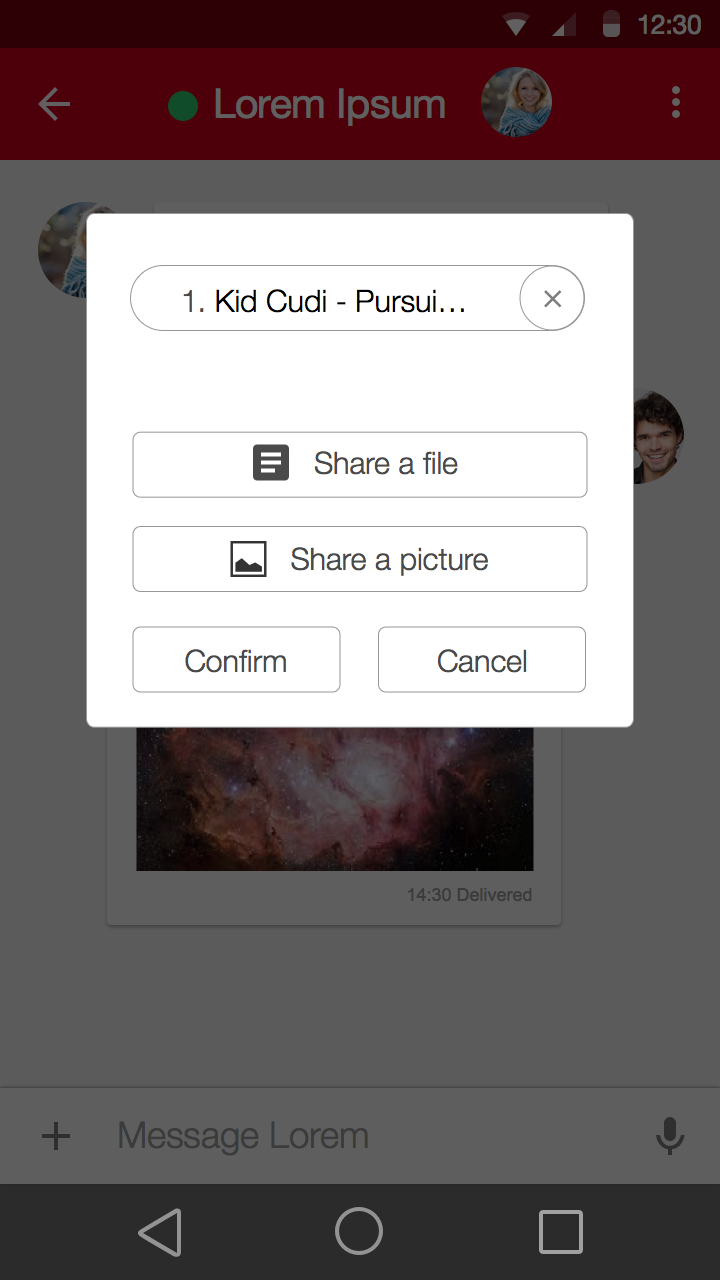
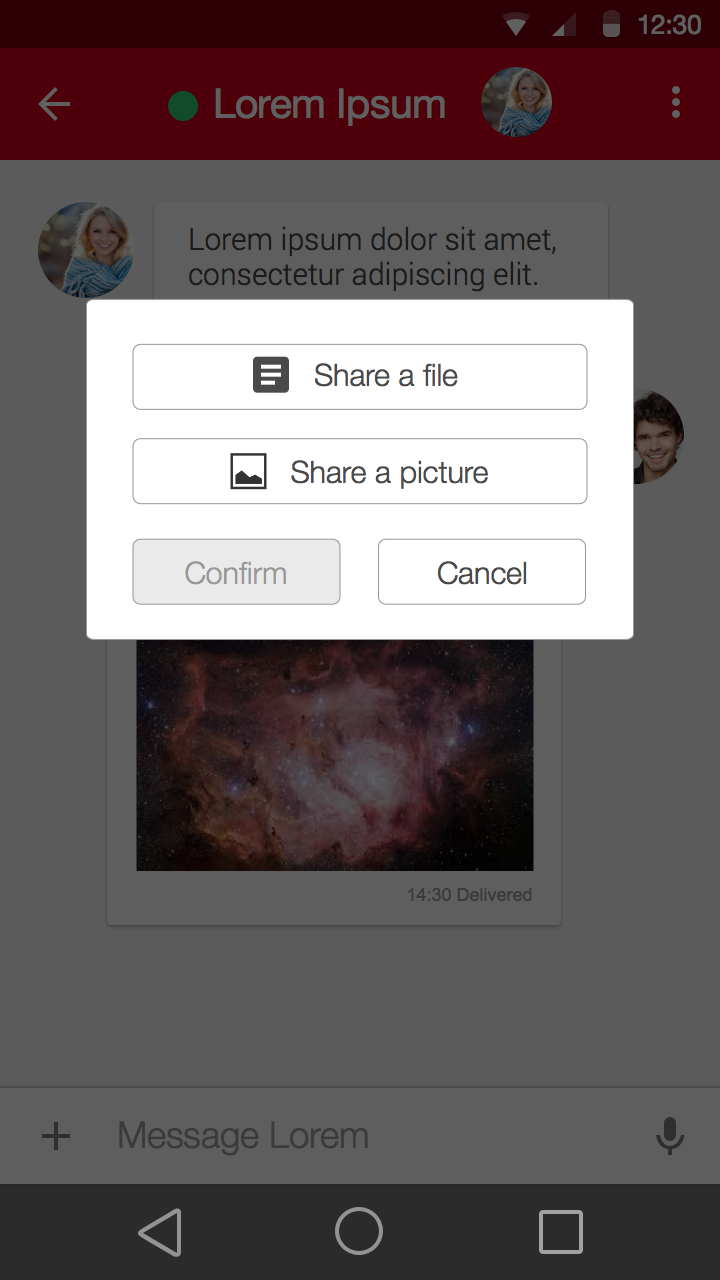
Fixed some UI mockups

diff --git a/doc/storyboard/GroupMessageSettingsPromptRenamed.html b/doc/storyboard/GroupMessageSettingsPromptRenamed.html
@@ -10,12 +10,10 @@
 			<center>
 				<div>
 					<div id="center">
-						<img id="centerIMG"src="img/Contacts_MessagingFiles.png">
-						<a href="gallery.html"><div class="highlight" style="position:absolute;top: 240px;left: 75px;width: 250px;height: 40px;"></div></a>
-						<a href="fileChoose.html"><div class="highlight" style="position:absolute;top: 190px;left: 75px;width: 250px;height: 40px;"></div></a>
-						<a href="Message.html"><div class="highlight" style="position:absolute;top: 296px;left: 216px;width: 100px;height: 40px;"></div></a>
-						<!--<a href="MessagzeAddedFile.html"><div class="highlight" style="position:absolute;top: 296px;left: 80px;width: 100px;height: 40px;"></div></a>-->
-
+						<img id="centerIMG"src="img/Group_messagingPromptRenamed.png">
+						<a href="index.html"><div class="highlight" style="position:absolute;top: 669px;left: 74px;width: 30px;height: 30px;"></div></a>
+						<a href="GroupMessageOther.html"><div class="highlight" style="position:absolute;top: 290px;left: 216px;width: 100px;height: 40px;"></div></a>
+						<a href="GroupMessageNewOther.html"><div class="highlight" style="position:absolute;top: 290px;left: 82px;width: 100px;height: 40px;"></div></a>
 					</div>
 					<div id="text"><h1>Tox Android Application Mockup</h1></div>
 					<input id="checkbox" type="checkbox"  checked>Highlight Touch Spots<br>

diff --git a/doc/storyboard/GroupMessageSettingsNewOther.html b/doc/storyboard/GroupMessageSettingsNewOther.html
@@ -10,10 +10,13 @@
 			<center>
 				<div>
 					<div id="center">
-						<img id="centerIMG"src="img/Group_messaging_Settings.png">
+						<img id="centerIMG"src="img/Group_messagingNewOther.png">
 						<a href="index.html"><div class="highlight" style="position:absolute;top: 669px;left: 74px;width: 30px;height: 30px;"></div></a>
 						<a href="index.html"><div class="highlight" style="position:absolute;top: 40px;left: 17px;width: 30px;height: 30px;"></div></a>
-						<a href="GroupMessageSettingsPrompt.html"><div class="highlight" style="position:absolute;top: 75px;left: 247px;width: 100px;height: 30px;"></div></a>
+						<a href="GroupMessagePromptLeave.html"><div class="highlight" style="position:absolute;top: 110px;left: 247px;width: 100px;height: 30px;"></div></a>
+						<a href="GroupMessageContacts.html"><div class="highlight" style="position:absolute;top: 185px;left: 247px;width: 125px;height: 30px;"></div></a>
+						<a href="GroupMessageSettingsPromptRename.html"><div class="highlight" style="position:absolute;top: 75px;left: 247px;width: 100px;height: 30px;"></div></a>
+
 					</div>
 					<div id="text"><h1>Tox Android Application Mockup</h1></div>
 					<a href="MessageWritting.html" style="color:blue;">Friend Writting!</a>

diff --git a/doc/storyboard/MessageEdited.html b/doc/storyboard/MessageEdited.html
@@ -10,12 +10,9 @@
 			<center>
 				<div>
 					<div id="center">
-						<img id="centerIMG"src="img/Contacts_MessagingFiles.png">
-						<a href="gallery.html"><div class="highlight" style="position:absolute;top: 240px;left: 75px;width: 250px;height: 40px;"></div></a>
-						<a href="fileChoose.html"><div class="highlight" style="position:absolute;top: 190px;left: 75px;width: 250px;height: 40px;"></div></a>
-						<a href="Message.html"><div class="highlight" style="position:absolute;top: 296px;left: 216px;width: 100px;height: 40px;"></div></a>
-						<!--<a href="MessagzeAddedFile.html"><div class="highlight" style="position:absolute;top: 296px;left: 80px;width: 100px;height: 40px;"></div></a>-->
-
+						<img id="centerIMG"src="img/Contacts_MessagingEdited.png">
+						<a href="MessageEditedDone.html"><div class="highlight" style="position:absolute;top: 290px;left: 82px;width: 100px;height: 40px;"></div></a>
+						<a href="Message.html"><div class="highlight" style="position:absolute;top: 290px;left: 216px;width: 100px;height: 40px;"></div></a>
 					</div>
 					<div id="text"><h1>Tox Android Application Mockup</h1></div>
 					<input id="checkbox" type="checkbox"  checked>Highlight Touch Spots<br>

diff --git a/doc/storyboard/GroupMessageSettingsPromptRename.html b/doc/storyboard/GroupMessageSettingsPromptRename.html
@@ -10,13 +10,14 @@
 			<center>
 				<div>
 					<div id="center">
-						<img id="centerIMG"src="img/Group_messagingPrompt.png">
+						<img id="centerIMG"src="img/Group_messagingPromptRename.png">
 						<a href="index.html"><div class="highlight" style="position:absolute;top: 669px;left: 74px;width: 30px;height: 30px;"></div></a>
-						<a href="GroupMessage.html"><div class="highlight" style="position:absolute;top: 290px;left: 82px;width: 100px;height: 40px;"></div></a>
-						<a href="GroupMessage.html"><div class="highlight" style="position:absolute;top: 290px;left: 216px;width: 100px;height: 40px;"></div></a>
+						<a href="GroupMessageOther.html"><div class="highlight" style="position:absolute;top: 290px;left: 216px;width: 100px;height: 40px;"></div></a>
+						<a href="GroupMessageSettingsPromptRenamed.html" style="color:blue;"><div style="position:absolute;top: 280px;left: -168px;height: 80px;">Edit the Group Name!</div></a>
+
 					</div>
 					<div id="text"><h1>Tox Android Application Mockup</h1></div>
-					<input id="checkbox" type="checkbox"  checked>Highlight Touch Spots<br>+
+					<input id="checkbox" type="checkbox"  checked>Highlight Touch Spots<br>
 				</div>
 			</center>
 			

diff --git a/doc/storyboard/MessageAddedFilesPrompt.html b/doc/storyboard/MessageAddedFilesPrompt.html
@@ -10,11 +10,9 @@
 			<center>
 				<div>
 					<div id="center">
-						<img id="centerIMG"src="img/Contacts_MessagingFiles.png">
-						<a href="gallery.html"><div class="highlight" style="position:absolute;top: 240px;left: 75px;width: 250px;height: 40px;"></div></a>
-						<a href="fileChoose.html"><div class="highlight" style="position:absolute;top: 190px;left: 75px;width: 250px;height: 40px;"></div></a>
-						<a href="Message.html"><div class="highlight" style="position:absolute;top: 296px;left: 216px;width: 100px;height: 40px;"></div></a>
-						<!--<a href="MessagzeAddedFile.html"><div class="highlight" style="position:absolute;top: 296px;left: 80px;width: 100px;height: 40px;"></div></a>-->
+						<img id="centerIMG"src="img/Contacts_MessagingFilesAdded.png">
+						<a href="Message.html"><div class="highlight" style="position:absolute;top: 346px;left: 216px;width: 100px;height: 40px;"></div></a>
+						<a href="MessageAddedFile.html"><div class="highlight" style="position:absolute;top: 346px;left: 80px;width: 100px;height: 40px;"></div></a>
 
 					</div>
 					<div id="text"><h1>Tox Android Application Mockup</h1></div>

diff --git a/doc/storyboard/GroupMessageNewOther.html b/doc/storyboard/GroupMessageNewOther.html
@@ -10,15 +10,12 @@
 			<center>
 				<div>
 					<div id="center">
-						<img id="centerIMG"src="img/Contacts_MessagingFiles.png">
-						<a href="gallery.html"><div class="highlight" style="position:absolute;top: 240px;left: 75px;width: 250px;height: 40px;"></div></a>
-						<a href="fileChoose.html"><div class="highlight" style="position:absolute;top: 190px;left: 75px;width: 250px;height: 40px;"></div></a>
-						<a href="Message.html"><div class="highlight" style="position:absolute;top: 296px;left: 216px;width: 100px;height: 40px;"></div></a>
-						<!--<a href="MessagzeAddedFile.html"><div class="highlight" style="position:absolute;top: 296px;left: 80px;width: 100px;height: 40px;"></div></a>-->
-
+						<img id="centerIMG"src="img/Group_messagingNewOther.png">
 					</div>
 					<div id="text"><h1>Tox Android Application Mockup</h1></div>
+					<a href="MessageWritting.html" style="color:blue;">Friend Writting!</a>
 					<input id="checkbox" type="checkbox"  checked>Highlight Touch Spots<br>
+
 				</div>
 			</center>
 			

diff --git a/doc/storyboard/MessageEditedDone.html b/doc/storyboard/MessageEditedDone.html
@@ -10,14 +10,10 @@
 			<center>
 				<div>
 					<div id="center">
-						<img id="centerIMG"src="img/Contacts_MessagingFiles.png">
-						<a href="gallery.html"><div class="highlight" style="position:absolute;top: 240px;left: 75px;width: 250px;height: 40px;"></div></a>
-						<a href="fileChoose.html"><div class="highlight" style="position:absolute;top: 190px;left: 75px;width: 250px;height: 40px;"></div></a>
-						<a href="Message.html"><div class="highlight" style="position:absolute;top: 296px;left: 216px;width: 100px;height: 40px;"></div></a>
-						<!--<a href="MessagzeAddedFile.html"><div class="highlight" style="position:absolute;top: 296px;left: 80px;width: 100px;height: 40px;"></div></a>-->
-
+						<img id="centerIMG"src="img/Contacts_MessagingEditedDone.png">
 					</div>
 					<div id="text"><h1>Tox Android Application Mockup</h1></div>
+					<a href="MessageWritting.html" style="color:blue;">Friend Writting!</a>
 					<input id="checkbox" type="checkbox"  checked>Highlight Touch Spots<br>
 				</div>
 			</center>

diff --git a/doc/storyboard/GroupMessageSettingsOther.html b/doc/storyboard/GroupMessageSettingsOther.html
@@ -15,6 +15,8 @@
 						<a href="index.html"><div class="highlight" style="position:absolute;top: 40px;left: 17px;width: 30px;height: 30px;"></div></a>
 						<a href="GroupMessagePromptLeave.html"><div class="highlight" style="position:absolute;top: 110px;left: 247px;width: 100px;height: 30px;"></div></a>
 						<a href="GroupMessageContacts.html"><div class="highlight" style="position:absolute;top: 185px;left: 247px;width: 125px;height: 30px;"></div></a>
+						<a href="GroupMessageSettingsPromptRename.html"><div class="highlight" style="position:absolute;top: 75px;left: 247px;width: 100px;height: 30px;"></div></a>
+
 					</div>
 					<div id="text"><h1>Tox Android Application Mockup</h1></div>
 					<a href="MessageWritting.html" style="color:blue;">Friend Writting!</a>

diff --git a/doc/storyboard/MessageEdit.html b/doc/storyboard/MessageEdit.html
@@ -13,6 +13,7 @@
 						<img id="centerIMG"src="img/Contacts_MessagingEdit.png">
 						<a href="Message.html"><div class="highlight" style="position:absolute;top: 290px;left: 82px;width: 100px;height: 40px;"></div></a>
 						<a href="Message.html"><div class="highlight" style="position:absolute;top: 290px;left: 216px;width: 100px;height: 40px;"></div></a>
+						<a href="MessageEdited.html" style="color:blue;"><div style="position:absolute;top: 280px;left: -108px;height: 80px;">Edit the Text!</div></a>
 					</div>
 					<div id="text"><h1>Tox Android Application Mockup</h1></div>
 					<input id="checkbox" type="checkbox"  checked>Highlight Touch Spots<br>

diff --git a/doc/storyboard/GroupMessage.html b/doc/storyboard/GroupMessage.html
@@ -13,7 +13,6 @@
 						<img id="centerIMG"src="img/Group_messaging.png">
 						<a href="index.html"><div class="highlight" style="position:absolute;top: 669px;left: 74px;width: 30px;height: 30px;"></div></a>
 						<a href="index.html"><div class="highlight" style="position:absolute;top: 40px;left: 17px;width: 30px;height: 30px;"></div></a>
-						<a href="GroupMessageSettings.html"><div class="highlight" style="position:absolute;top: 40px;left: 358px;width: 30px;height: 30px;"></div></a>
 					</div>
 					<div id="text"><h1>Tox Android Application Mockup</h1></div>
 					<a href="MessageWritting.html" style="color:blue;">Friend Writting!</a>

diff --git a/doc/storyboard/fileChoose.html b/doc/storyboard/fileChoose.html
@@ -11,6 +11,7 @@
 				<div>
 					<div id="center">
 						<img id="centerIMG"src="img/fileChoose.png">
+						<a href="MessageAddedFilesPrompt.html"><div class="highlight" style="position:absolute;top: 480px;left: 0px;width: 400px;height: 60px;"></div></a>
 					</div>
 					<div id="text"><h1>Tox Android Application Mockup</h1></div>
 					<input id="checkbox" type="checkbox"  checked>Highlight Touch Spots<br>

diff --git a/doc/storyboard/gallery.html b/doc/storyboard/gallery.html
@@ -11,6 +11,8 @@
 				<div>
 					<div id="center">
 						<img id="centerIMG"src="img/gallery.png">
+						<a href="MessageAddedFilesPrompt.html"><div class="highlight" style="position:absolute;top: 170px;left: 0px;width: 200px;height: 200px;"></div></a>
+
 					</div>
 					<div id="text"><h1>Tox Android Application Mockup</h1></div>
 					<input id="checkbox" type="checkbox"  checked>Highlight Touch Spots<br>
